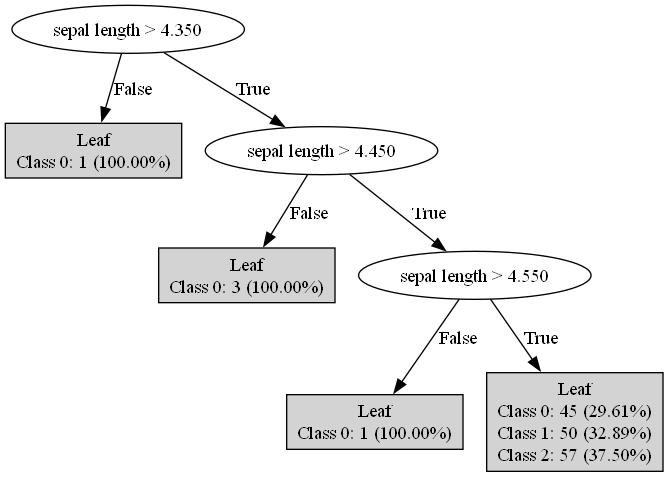
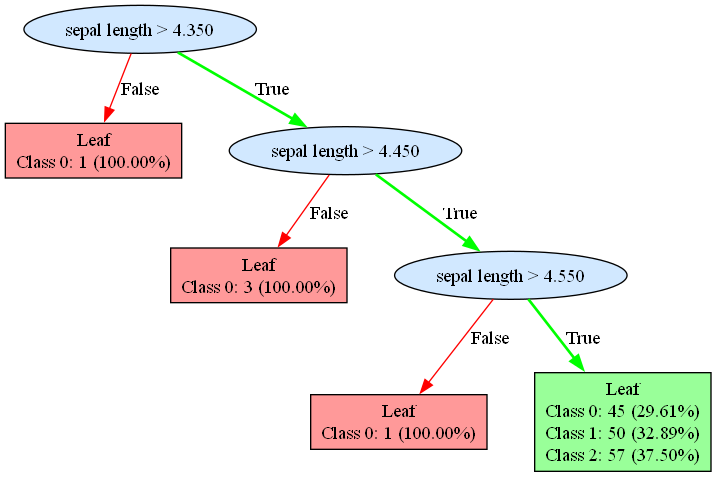
V2 Complete: Added colored visualization and automation

diff --git a/src/tree_graph.c b/src/tree_graph.c
@@ -1,4 +1,5 @@
 #include <stdio.h>
+#include <stdlib.h>
 #include "tree.h"
 #include "tree_graph.h"
 
@@ -8,31 +9,6 @@
  * אם זה עלה – מציגה את מספר הדוגמאות לכל מחלקה וגם את האחוזים היחסיים
  * אם זה צומת רגיל – מציגה את התנאי לפיצול (תכונה וסף או ערך קטגוריאלי)
  */
-void print_node_dot(Node *node, FILE *file, int *id_counter, char **feature_names);
-
-/*
- * פונקציה עיקרית שמייצאת את עץ ההחלטה לקובץ בפורמט DOT (גרף)
- * מתחילה את מבנה הקובץ, קוראת לפונקציה רקורסיבית להדפסת הצמתים, וסוגרת את הגרף
- */
-void export_tree_to_dot(Node *node, FILE *file, char **feature_names)
-{
-    fprintf(file, "digraph DecisionTree {\n");
-    fprintf(file, "node [shape=ellipse, style=filled, fillcolor=white];\n");
-    int id_counter = 0; // מונה ייחודי לצמתים
-    print_node_dot(node, file, &id_counter, feature_names);
-    fprintf(file, "}\n");
-}
-
-/*
- * פונקציה רקורסיבית להדפסת צומת בודד וקשתות לצמתים הבנים שלו בקובץ DOT
- *
- * אם הצומת הוא עלה:
- *   - מדפיסה את מספר הדוגמאות לכל מחלקה (class)
- *   - מחשבת את האחוז היחסי של כל מחלקה מתוך סך הכל ומוסיפה להצגה
- * אם הצומת הוא לא עלה:
- *   - מציגה את התנאי (תכונה > סף אם מספרי, או תכונה == ערך אם קטגוריאלי)
- *   - מוסיפה קשתות (חצים) לצמתים הבנים (True/False)
- */
 void print_node_dot(Node *node, FILE *file, int *id_counter, char **feature_names)
 {
     if (node == NULL)
@@ -40,16 +16,21 @@ void print_node_dot(Node *node, FILE *file, int *id_counter, char **feature_name
 
     int current_id = (*id_counter)++; // מזהה ייחודי לכל צומת
 
+    // חישוב סך כל הדוגמאות בצומת הנוכחי לצורך עיצוב
+    int total = 0;
+    for (int i = 0; i < node->num_classes; i++)
+    {
+        total += node->labels[i];
+    }
+
     if (node->is_leaf)
     {
-        fprintf(file, "node%d [label=\"Leaf\\n", current_id);
+        // קביעת צבע העלה לפי המחלקה השולטת (V2 Upgrade)
+        const char *fillcolor = "#E0E0E0"; // אפור כברירת מחדל
+        if (node->labels[1] > node->labels[0]) fillcolor = "#99FF99"; // ירוק אם רוב ל-Class 1
+        else if (node->labels[0] > node->labels[1]) fillcolor = "#FF9999"; // אדום אם רוב ל-Class 0
 
-        // חישוב סך כל הדוגמאות בעלה
-        int total = 0;
-        for (int i = 0; i < node->num_classes; i++)
-        {
-            total += node->labels[i];
-        }
+        fprintf(file, "    node%d [label=\"Leaf\\n", current_id);
 
         // הדפסת מספר הדוגמאות ואחוזים לכל מחלקה
         for (int i = 0; i < node->num_classes; i++)
@@ -58,35 +39,79 @@ void print_node_dot(Node *node, FILE *file, int *id_counter, char **feature_name
             fprintf(file, "Class %d: %d (%.2f%%)\\n", i, node->labels[i], percentage);
         }
 
-        fprintf(file, "\", shape=box, style=filled, fillcolor=lightgray];\n");
+        // הגדרת עיצוב העלה עם הצבע שנבחר
+        fprintf(file, "\", shape=box, style=filled, fillcolor=\"%s\"];\n", fillcolor);
     }
     else
     {
         const char *feature_name = feature_names[node->feature_index];
 
+        // עיצוב צומת החלטה בצורת אליפסה עם צבע כחול בהיר
         if (node->is_numeric_split)
         {
-            fprintf(file, "node%d [label=\"%s > %.3f\"];\n", current_id, feature_name, node->threshold);
+            fprintf(file, "    node%d [label=\"%s > %.3f\", shape=ellipse, style=filled, fillcolor=\"#D1E8FF\"];\n", current_id, feature_name, node->threshold);
         }
         else
         {
-            fprintf(file, "node%d [label=\"%s == %s\"];\n", current_id, feature_name, node->category_value);
+            fprintf(file, "    node%d [label=\"%s == %s\", shape=ellipse, style=filled, fillcolor=\"#D1E8FF\"];\n", current_id, feature_name, node->category_value);
         }
 
-        // הדפסת צומת שמאלי
+        // הדפסת צומת שמאלי (False) - קשת אדומה
         if (node->left)
         {
             int left_id = *id_counter;
             print_node_dot(node->left, file, id_counter, feature_names);
-            fprintf(file, "node%d -> node%d [label=\"False\"];\n", current_id, left_id);
+            fprintf(file, "    node%d -> node%d [label=\"False\", color=\"red\"];\n", current_id, left_id);
         }
 
-        // הדפסת צומת ימני
+        // הדפסת צומת ימני (True) - קשת ירוקה ועבה
         if (node->right)
         {
             int right_id = *id_counter;
             print_node_dot(node->right, file, id_counter, feature_names);
-            fprintf(file, "node%d -> node%d [label=\"True\"];\n", current_id, right_id);
+            fprintf(file, "    node%d -> node%d [label=\"True\", color=\"green\", penwidth=2];\n", current_id, right_id);
         }
     }
+}
+
+/*
+ * פונקציה עיקרית שמייצאת את עץ ההחלטה לקובץ בפורמט DOT (גרף)
+ * מתחילה את מבנה הקובץ, קוראת לפונקציה רקורסיבית להדפסת הצמתים, וסוגרת את הגרף
+ */
+void export_tree_to_dot(Node *node, FILE *file, char **feature_names)
+{
+    fprintf(file, "digraph DecisionTree {\n");
+    fprintf(file, "    graph [rankdir=TB, nodesep=0.5, ranksep=0.5, fontname=\"Arial\"];\n");
+    int id_counter = 0; 
+    print_node_dot(node, file, &id_counter, feature_names);
+    fprintf(file, "}\n");
+}
+
+/*
+ * פונקציה חדשה המבצעת אוטומציה:
+ * 1. הופכת את קובץ ה-DOT לתמונת PNG בעזרת Graphviz
+ * 2. פותחת את התמונה באופן אוטומטי לצפייה
+ */
+void generate_and_open_graph(const char *dot_filename, const char *img_filename) {
+    char command[1024]; // הגדלנו מעט את החוצץ לנתיבים ארוכים
+    
+    // הגדרת הנתיב המלא ל-EXE של Graphviz כפי שמופיע אצלך
+    const char *DOT_PATH = "C:\\Program Files\\Graphviz\\bin\\dot.exe";
+
+    // הרצת הפקודה (שימוש בגרשיים כדי לטפל ברווחים בנתיב של Program Files)
+    sprintf(command, "\"%s\" -Tpng %s -o %s", DOT_PATH, dot_filename, img_filename);
+    
+    printf("Executing: %s\n", command);
+    int result = system(command);
+    
+    if (result != 0) {
+        printf("[ERROR] Graphviz failed to generate image. Check if path is correct.\n");
+        return;
+    }
+    
+    // פתיחת הקובץ בווינדוס
+    #ifdef _WIN32
+        sprintf(command, "start %s", img_filename);
+        system(command);
+    #endif
 }

diff --git a/src/main.c b/src/main.c
@@ -1,6 +1,6 @@
 // הקריאה לפונקציות, שליטה על הזרימה
 #include <stdio.h>
-#include <stdlib.h> 
+#include <stdlib.h>
 #include <string.h>
 
 #include "dataset.h"
@@ -13,11 +13,8 @@
 
 int main()
 {
-
     char Path[] = "data\\iris.csv";
-    MakeSure(Path); // בדוק אם הקובץ קיים ותקין
-
-    const char *DOT_PATH = "C:\\Program Files\\Graphviz\\bin\\dot.exe"; // נתיב לגרף של Graphviz
+    MakeSure(Path); 
 
     // פתיחת הקובץ
     FILE *file = fopen(Path, "r");
@@ -28,7 +25,7 @@ int main()
         return 0;
     }
 
-    // קריאת המחלקות מהקובץ (לצורך תחזיות)
+    // קריאת המחלקות מהקובץ
     int class_count = 0;
     char **classes = count_classes(file, &class_count);
     if (classes == NULL || class_count == 0)
@@ -40,69 +37,53 @@ int main()
 
     // הדפסת המחלקות שנמצאו
     printf("Classes found (%d):\n", class_count);
-    for (int i = 0; i < class_count; i++)
-    {
-        printf("- %s\n", classes[i]);
-    }
+    for (int i = 0; i < class_count; i++) { printf("- %s\n", classes[i]); }
 
-    // בניית עץ ההחלטה מהקובץ
+    // בניית עץ ההחלטה
     printf("Building decision tree...\n");
     Node *root = NULL;
     build_tree(&root, file, 1, "Root");
 
-    // יצירת קובץ התחזיות לפי העץ
+    // יצירת קובץ התחזיות
     printf("Writing predictions to CSV...\n");
     write_predictions(root, Path, "predictions.csv", classes);
-    system("start predictions.csv"); // פותח את הקובץ אוטומטית באקסל/Notepad
+    // הערה: הסרתי את הפתיחה האוטומטית של ה-CSV כדי שלא יקפצו לך 20 חלונות בכל הרצה
+    // אם אתה רוצה את זה, פשוט תחזיר את ה-system("start predictions.csv");
 
-    // ספירת מספר עמודות ויצירת וקטור שמות תכונות (לציור העץ)
+    // ספירת עמודות ויצירת שמות תכונות
     int column_count = count_columnsfunc(file);
     int allocated_columns = 0;
     char **feature_names_vector = create_and_print_feature_vector(file, column_count, &allocated_columns);
 
-    // יצירת קובץ DOT לעץ ההחלטה
-    const char *dot_path = "C:\\Users\\liron\\Desktop\\Final-project\\VScode\\Project\\Final-project\\tree.dot";
-    FILE *dot_file = fopen(dot_path, "w");
+    // --- ייצוא ויזואלי של העץ (כאן השינוי המרכזי) ---
+    const char *dot_filename = "tree.dot";
+    const char *png_filename = "tree.png";
+    
+    FILE *dot_file = fopen(dot_filename, "w");
     if (dot_file)
     {
+        printf("Exporting colored tree to DOT...\n");
         export_tree_to_dot(root, dot_file, feature_names_vector);
         fclose(dot_file);
 
-        // הרצת הפקודה ליצירת PNG מה-DOT
-        char command[512];
-        sprintf(command, "\"%s\" -Tpng tree.dot -o tree.png", DOT_PATH);
-        int result = system(command);
-        if (result != 0)
-        {
-            printf("[ERROR] dot command failed with code: %d\n", result);
-        }
-
-        // פתיחה אוטומטית של קובץ התמונה
-        if (fopen("tree.png", "r") != NULL)
-        {
-            system("start tree.png");
-        }
-        else
-        {
-            printf("[ERROR] tree.png not found when trying to open.\n");
-        }
+        // שימוש בפונקציה החדשה שיצרנו ב-tree_graph.c
+        // היא מטפלת גם בהרצה של Graphviz וגם בפתיחת התמונה
+        generate_and_open_graph(dot_filename, png_filename);
+    }
+    else {
+        printf("[ERROR] Could not create tree.dot\n");
     }
 
     // שחרור זיכרון
+    printf("Cleaning up memory...\n");
     free_tree(root);
     fclose(file);
 
-    for (int i = 0; i < column_count; i++)
-    {
-        free(feature_names_vector[i]);
-    }
-
-    for (int i = 0; i < class_count; i++)
-    {
-        free(classes[i]);
-    }
+    for (int i = 0; i < column_count; i++) { free(feature_names_vector[i]); }
+    for (int i = 0; i < class_count; i++) { free(classes[i]); }
     free(classes);
 
+    printf("\nDone! Look at the generated tree image.\n");
     system("pause");
     return 0;
 }